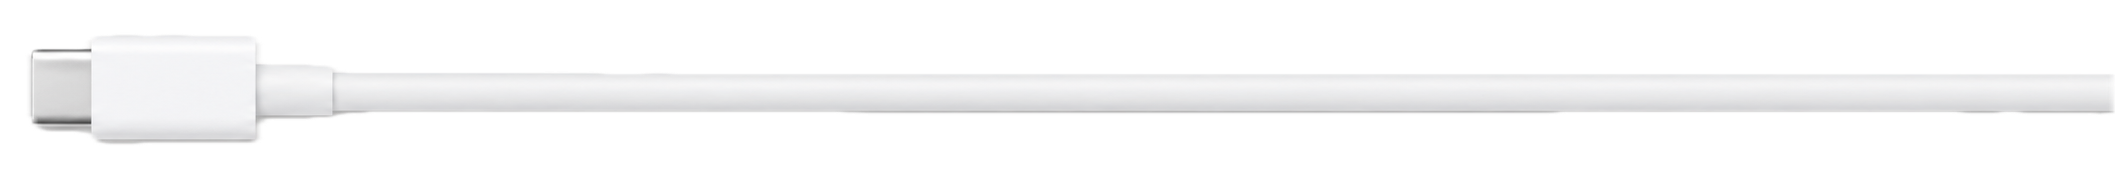
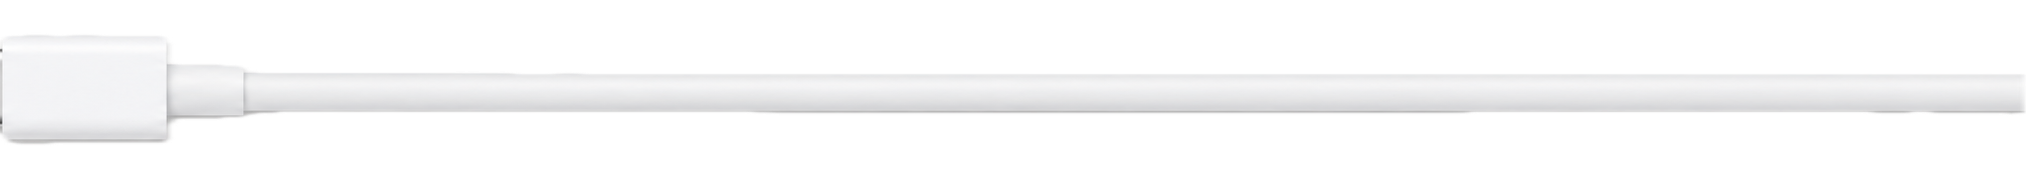
better image

diff --git a/apps/simulator/src/components/canvas/cubes/BaseCubeShell.tsx b/apps/simulator/src/components/canvas/cubes/BaseCubeShell.tsx
@@ -76,7 +76,7 @@ export function BaseCubeShell({
         style={{ overflow: isCore ? "visible" : "hidden" }}
       >
         {isCore && inChain ? (
-          <div className="absolute top-0 w-screen h-full z-[-1] flex items-center" style={{ left: CUBE_SIZE - 35 }}>
+          <div className="absolute top-0 w-screen h-full z-[-1] flex items-center" style={{ left: CUBE_SIZE }}>
             <img
               src={CORE_CABLE_BG}
               alt=""